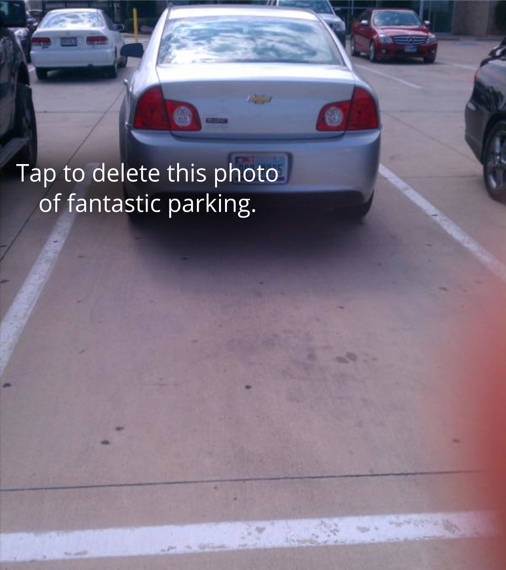
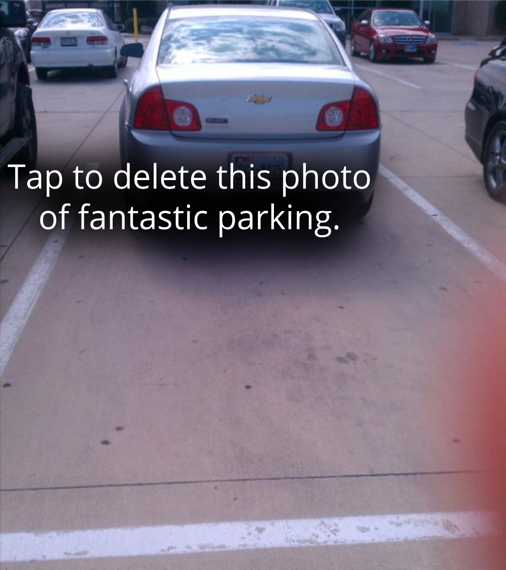
0.84 − 3:48 PM - August 5, 2013
iAd frame setup and new bigger text on intro images.

Changed region(s): [[0.0296, 0.2386, 0.8004, 0.4474]]

diff --git a/Hiddin/BannerViewController.m b/Hiddin/BannerViewController.m
@@ -1,0 +1,152 @@
+/*
+     File: BannerViewController.m
+ Abstract: A container view controller that manages an ADBannerView and a content view controller.
+ 
+  Version: 1.0
+ 
+ Disclaimer: IMPORTANT:  This Apple software is supplied to you by Apple
+ Inc. ("Apple") in consideration of your agreement to the following
+ terms, and your use, installation, modification or redistribution of
+ this Apple software constitutes acceptance of these terms.  If you do
+ not agree with these terms, please do not use, install, modify or
+ redistribute this Apple software.
+ 
+ In consideration of your agreement to abide by the following terms, and
+ subject to these terms, Apple grants you a personal, non-exclusive
+ license, under Apple's copyrights in this original Apple software (the
+ "Apple Software"), to use, reproduce, modify and redistribute the Apple
+ Software, with or without modifications, in source and/or binary forms;
+ provided that if you redistribute the Apple Software in its entirety and
+ without modifications, you must retain this notice and the following
+ text and disclaimers in all such redistributions of the Apple Software.
+ Neither the name, trademarks, service marks or logos of Apple Inc. may
+ be used to endorse or promote products derived from the Apple Software
+ without specific prior written permission from Apple.  Except as
+ expressly stated in this notice, no other rights or licenses, express or
+ implied, are granted by Apple herein, including but not limited to any
+ patent rights that may be infringed by your derivative works or by other
+ works in which the Apple Software may be incorporated.
+ 
+ The Apple Software is provided by Apple on an "AS IS" basis.  APPLE
+ MAKES NO WARRANTIES, EXPRESS OR IMPLIED, INCLUDING WITHOUT LIMITATION
+ THE IMPLIED WARRANTIES OF NON-INFRINGEMENT, MERCHANTABILITY AND FITNESS
+ FOR A PARTICULAR PURPOSE, REGARDING THE APPLE SOFTWARE OR ITS USE AND
+ OPERATION ALONE OR IN COMBINATION WITH YOUR PRODUCTS.
+ 
+ IN NO EVENT SHALL APPLE BE LIABLE FOR ANY SPECIAL, INDIRECT, INCIDENTAL
+ OR CONSEQUENTIAL DAMAGES (INCLUDING, BUT NOT LIMITED TO, PROCUREMENT OF
+ SUBSTITUTE GOODS OR SERVICES; LOSS OF USE, DATA, OR PROFITS; OR BUSINESS
+ INTERRUPTION) ARISING IN ANY WAY OUT OF THE USE, REPRODUCTION,
+ MODIFICATION AND/OR DISTRIBUTION OF THE APPLE SOFTWARE, HOWEVER CAUSED
+ AND WHETHER UNDER THEORY OF CONTRACT, TORT (INCLUDING NEGLIGENCE),
+ STRICT LIABILITY OR OTHERWISE, EVEN IF APPLE HAS BEEN ADVISED OF THE
+ POSSIBILITY OF SUCH DAMAGE.
+ 
+ Copyright (C) 2013 Apple Inc. All Rights Reserved.
+ 
+ */
+
+#import "BannerViewController.h"
+
+NSString * const BannerViewActionWillBegin = @"BannerViewActionWillBegin";
+NSString * const BannerViewActionDidFinish = @"BannerViewActionDidFinish";
+
+@interface BannerViewController () <ADBannerViewDelegate>
+
+@property (nonatomic, strong) ADBannerView *bannerView;
+@property (nonatomic, strong) UIViewController *contentController;
+
+@end
+
+#pragma mark -
+
+@implementation BannerViewController
+
+- (void)viewDidLoad
+{
+    [super viewDidLoad];
+    
+    // On iOS 6 ADBannerView introduces a new initializer, use it when available
+    if ([ADBannerView instancesRespondToSelector:@selector(initWithAdType:)])
+    {
+        _bannerView = [[ADBannerView alloc] initWithAdType:ADAdTypeBanner];
+    }
+    else
+    {
+        _bannerView = [[ADBannerView alloc] init];
+    }
+    _bannerView.delegate = self;
+    
+    [self.view addSubview:_bannerView];
+    
+    _contentController = self.childViewControllers[0];  // remember who our content child is
+}
+
+- (UIInterfaceOrientation)preferredInterfaceOrientationForPresentation
+{
+    return [_contentController preferredInterfaceOrientationForPresentation];
+}
+
+- (NSUInteger)supportedInterfaceOrientations
+{
+    return [_contentController supportedInterfaceOrientations];
+}
+
+- (void)viewDidLayoutSubviews
+{
+    CGRect contentFrame = self.view.bounds, bannerFrame = CGRectZero;
+
+    // All we need to do is ask the banner for a size that fits into the layout area we are using.
+    // At this point in this method contentFrame=self.view.bounds, so we'll use that size for the layout.
+    bannerFrame.size = [_bannerView sizeThatFits:contentFrame.size];
+    
+    if (_bannerView.bannerLoaded) {
+        contentFrame.size.height -= bannerFrame.size.height;
+        bannerFrame.origin.y = contentFrame.size.height;
+    } else {
+        bannerFrame.origin.y = contentFrame.size.height;
+    }
+    _contentController.view.frame = contentFrame;
+    _bannerView.frame = bannerFrame;
+}
+
+- (void)bannerViewDidLoadAd:(ADBannerView *)banner
+{
+    [UIView animateWithDuration:0.25 animations:^{
+        // viewDidLayoutSubviews will handle positioning the banner view so that it is visible.
+        // You must not call [self.view layoutSubviews] directly.  However, you can flag the view
+        // as requiring layout...
+        [self.view setNeedsLayout];
+        // ... then ask it to lay itself out immediately if it is flagged as requiring layout...
+        [self.view layoutIfNeeded];
+        // ... which has the same effect.
+    }];
+}
+
+- (void)bannerView:(ADBannerView *)banner didFailToReceiveAdWithError:(NSError *)error
+{
+    NSLog(@"didFailToReceiveAdWithError %@", error);
+    
+    [UIView animateWithDuration:0.25 animations:^{
+        // viewDidLayoutSubviews will handle positioning the banner view so that it is hidden.
+        // You must not call [self.view layoutSubviews] directly.  However, you can flag the view
+        // as requiring layout...
+        [self.view setNeedsLayout];
+        // ... then ask it to lay itself out immediately if it is flagged as requiring layout...
+        [self.view layoutIfNeeded];
+        // ... which has the same effect.
+    }];
+}
+
+- (BOOL)bannerViewActionShouldBegin:(ADBannerView *)banner willLeaveApplication:(BOOL)willLeave
+{
+    [[NSNotificationCenter defaultCenter] postNotificationName:BannerViewActionWillBegin object:self];
+    return YES;
+}
+
+- (void)bannerViewActionDidFinish:(ADBannerView *)banner
+{
+    [[NSNotificationCenter defaultCenter] postNotificationName:BannerViewActionDidFinish object:self];
+}
+
+@end

diff --git a/Hiddin/BannerViewController.h b/Hiddin/BannerViewController.h
@@ -1,0 +1,57 @@
+/*
+     File: BannerViewController.h
+ Abstract: A container view controller that manages an ADBannerView and a content view controller.
+ 
+  Version: 1.0
+ 
+ Disclaimer: IMPORTANT:  This Apple software is supplied to you by Apple
+ Inc. ("Apple") in consideration of your agreement to the following
+ terms, and your use, installation, modification or redistribution of
+ this Apple software constitutes acceptance of these terms.  If you do
+ not agree with these terms, please do not use, install, modify or
+ redistribute this Apple software.
+ 
+ In consideration of your agreement to abide by the following terms, and
+ subject to these terms, Apple grants you a personal, non-exclusive
+ license, under Apple's copyrights in this original Apple software (the
+ "Apple Software"), to use, reproduce, modify and redistribute the Apple
+ Software, with or without modifications, in source and/or binary forms;
+ provided that if you redistribute the Apple Software in its entirety and
+ without modifications, you must retain this notice and the following
+ text and disclaimers in all such redistributions of the Apple Software.
+ Neither the name, trademarks, service marks or logos of Apple Inc. may
+ be used to endorse or promote products derived from the Apple Software
+ without specific prior written permission from Apple.  Except as
+ expressly stated in this notice, no other rights or licenses, express or
+ implied, are granted by Apple herein, including but not limited to any
+ patent rights that may be infringed by your derivative works or by other
+ works in which the Apple Software may be incorporated.
+ 
+ The Apple Software is provided by Apple on an "AS IS" basis.  APPLE
+ MAKES NO WARRANTIES, EXPRESS OR IMPLIED, INCLUDING WITHOUT LIMITATION
+ THE IMPLIED WARRANTIES OF NON-INFRINGEMENT, MERCHANTABILITY AND FITNESS
+ FOR A PARTICULAR PURPOSE, REGARDING THE APPLE SOFTWARE OR ITS USE AND
+ OPERATION ALONE OR IN COMBINATION WITH YOUR PRODUCTS.
+ 
+ IN NO EVENT SHALL APPLE BE LIABLE FOR ANY SPECIAL, INDIRECT, INCIDENTAL
+ OR CONSEQUENTIAL DAMAGES (INCLUDING, BUT NOT LIMITED TO, PROCUREMENT OF
+ SUBSTITUTE GOODS OR SERVICES; LOSS OF USE, DATA, OR PROFITS; OR BUSINESS
+ INTERRUPTION) ARISING IN ANY WAY OUT OF THE USE, REPRODUCTION,
+ MODIFICATION AND/OR DISTRIBUTION OF THE APPLE SOFTWARE, HOWEVER CAUSED
+ AND WHETHER UNDER THEORY OF CONTRACT, TORT (INCLUDING NEGLIGENCE),
+ STRICT LIABILITY OR OTHERWISE, EVEN IF APPLE HAS BEEN ADVISED OF THE
+ POSSIBILITY OF SUCH DAMAGE.
+ 
+ Copyright (C) 2013 Apple Inc. All Rights Reserved.
+ 
+ */
+
+#import <UIKit/UIKit.h>
+#import <iAd/iAd.h>
+
+extern NSString * const BannerViewActionWillBegin;
+extern NSString * const BannerViewActionDidFinish;
+
+@interface BannerViewController : UIViewController
+
+@end

diff --git a/Hiddin/ContentViewController.m b/Hiddin/ContentViewController.m
@@ -65,14 +65,15 @@
     
     [self.activeView addSubview:currentImage];
     
-    self.caption = [[UILabel alloc] initWithFrame:CGRectMake(0,0,200,100)];
+    self.caption = [[UILabel alloc] initWithFrame:CGRectMake(0,0,240,100)];
     self.caption.center = currentImage.center;
     self.caption.numberOfLines = 0;
     self.caption.font = [UIFont systemFontOfSize:14.0];
-    self.caption.backgroundColor = [UIColor colorWithRed:0/255.0 green:0/255.0 blue:0/255.0 alpha:0.5];
+    self.caption.backgroundColor = [UIColor clearColor];
+    
     self.caption.textColor = [UIColor whiteColor];
     self.caption.tag = 707;
-    //[self.activeView addSubview:caption];
+    [self.activeView addSubview:caption];
     
     NSLog(@"The user has selected to see this type of content: %@",self.typeSelected);
     
@@ -183,8 +184,23 @@
     NSString *newContentID = (((Content*)[self.content objectAtIndex:selectedIndex]).contentID);
     self.toolContent.contentID = newContentID;
     self.toolContent.contentLink = (((Content*)[self.content objectAtIndex:selectedIndex]).contentLink);
-    self.caption.text = (((Content*)[self.content objectAtIndex:selectedIndex]).contentDescription);
+    NSMutableAttributedString *attributedString = [[NSMutableAttributedString alloc] initWithString:(((Content*)[self.content objectAtIndex:selectedIndex]).contentDescription)];
     
+    
+    /*
+    NSShadow *shadow = [[NSShadow alloc] init];
+    [shadow setShadowColor:[UIColor colorWithRed:0/255.0 green:0/255.0 blue:0/255.0 alpha:1.0]];
+    [shadow setShadowBlurRadius:10.0];
+    [shadow setShadowOffset:CGSizeMake(0,0)];
+    
+    
+    [attributedString addAttribute:NSShadowAttributeName
+                             value:shadow
+                             range:NSMakeRange(0, [attributedString length])]; */
+    
+    
+    
+    self.caption.attributedText = attributedString;
     //////////////////START QUEUE STUFF/////////////////
     //Part 1) Populate the URLs that I need.
     NSMutableArray *neededURLs = [NSMutableArray arrayWithCapacity:7];

diff --git a/Hiddin/ContentTableViewController.m b/Hiddin/ContentTableViewController.m
@@ -51,6 +51,9 @@
 
     [toolContent getCurrentContent:self.content withType:self.typeSelected];
     
+    if (content.count < 1) {
+        NSLog(@"there are no results");
+    }
     if (!self.appDelegate.showIntroPhoto) {
         
         IntroViewController *introTextViewController = (IntroViewController*)[self.storyboard instantiateViewControllerWithIdentifier:@"introViewController"];
@@ -84,7 +87,7 @@
 
 - (CGFloat)tableView:(UITableView *)tableView heightForRowAtIndexPath:(NSIndexPath *)indexPath
 {
-    return 100.0;
+    return 95.0;
 }
 
 - (NSInteger)numberOfSectionsInTableView:(UITableView *)tableView
@@ -111,11 +114,19 @@
 	{
 		cell = [[ExampleCell alloc] initWithStyle:UITableViewCellStyleValue1 reuseIdentifier:[ExampleCell cellID]];
 	}
-    if ([typeSelected isEqualToString:@"tweet_text"]) {
-        cell.imageView.image = [UIImage imageNamed:@"hiddin_left_twitter.png"];
-    } else {
-        //detect retweets and change the logo a little.
+    if ([typeSelected isEqualToString:@"tweet_text"]||[typeSelected isEqualToString:@"tweet_text_later"]||[typeSelected isEqualToString:@"tweet_text_done"]) {
+        cell.imageView.contentMode = UIViewContentModeTop;
+        if (![((Content*)[self.content objectAtIndex:indexPath.row]).contentUserID isEqualToString:((Content*)[self.content objectAtIndex:indexPath.row]).contentFromName]) {
+            cell.imageView.image = [UIImage imageNamed:@"hiddin_left_retweet.png"];
+        } else {
+            
+            cell.imageView.image = [UIImage imageNamed:@"hiddin_left_twitter.png"];
+        }
+        
     }
+    
+    //add a number label
+        
     cell.textLabel.font = [UIFont systemFontOfSize:14];
     cell.textLabel.lineBreakMode = NSLineBreakByWordWrapping;
     cell.textLabel.numberOfLines = 0;
@@ -159,6 +170,7 @@
         cell.cellContentID = ((Content*)[self.content objectAtIndex:indexPath.row]).contentID;
     }
     
+    //add time ago
     
 	cell.delegate = self;
 	

diff --git a/Hiddin/MenuViewController.m b/Hiddin/MenuViewController.m
@@ -317,7 +317,7 @@
                           newContent.contentActive = @"yes";
                           newContent.contentSorting = @"none";
                           
-                          newContent.contentUserID = twitterAccount.identifier;
+                          newContent.contentUserID = twitterAccount.username;
                           
                           if (![newContent alreadyExists:newContent.contentID]) {
                               [newContent insertContent:newContent];
